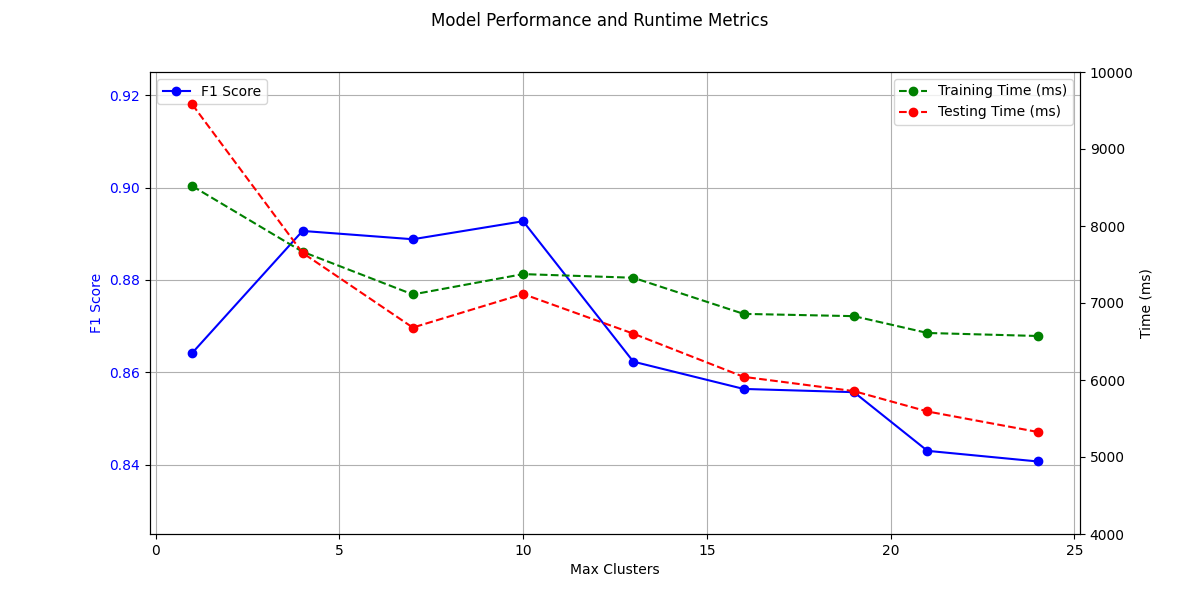
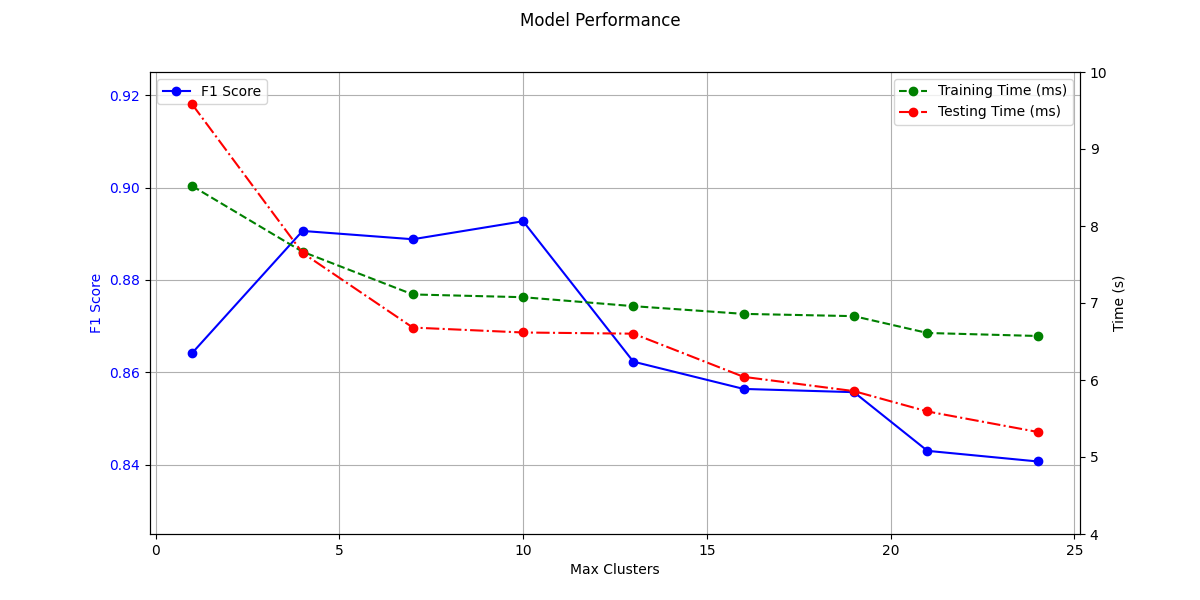
123

diff --git a/results/roc_gnn.py b/results/roc_gnn.py
@@ -4,8 +4,7 @@ import matplotlib.pyplot as plt
 from sklearn.metrics import roc_curve, auc
 
 # 定义函数绘制ROC曲线
-def plot_roc_curve(file_paths):
-    plt.figure(figsize=(10, 8))
+def plot_roc_curve(plt, file_paths, name):
     
     for (model_name, file_path) in file_paths:
         print(file_path)
@@ -25,32 +24,36 @@ def plot_roc_curve(file_paths):
     
     # 图形美化
     plt.plot([0, 1], [0, 1], 'k--', lw=2)  # 对角线
-    plt.xlim([0.0, 1.0])
-    plt.ylim([0.0, 1.05])
-    plt.xlabel('False Positive Rate', fontsize=12)
-    plt.ylabel('True Positive Rate', fontsize=12)
-    plt.title('ROC Curve for Multiple Models', fontsize=14)
+    plt.set_xlim([0.0, 1.0])
+    plt.set_ylim([0.0, 1.05])
+    plt.set_xlabel('False Positive Rate', fontsize=12)
+    plt.set_ylabel('True Positive Rate', fontsize=12)
+    plt.set_title(f'ROC Curve for {name}', fontsize=14)
     plt.legend(loc='lower right', fontsize=10)
     plt.grid()
-    plt.savefig("roc.png")
 
 # 定义文件路径列表（将以下文件路径替换为实际路径）
-# file_paths = [
-#     ('FAAC', '/root/bishe/results/load_UGR16_faac/MAEGAN/labels_anomaly_scores.csv'),
-#     ('GCN', '/root/bishe/results/load_UGR16_GCN/MAEGAN/labels_anomaly_scores.csv'),
-#     ('GAT', '/root/bishe/results/load_UGR16_GAT/MAEGAN/labels_anomaly_scores.csv'),
-#     ('GCN-LSTM', '/root/bishe/results/load_UGR16_GCN_LSTM/MAEGAN/labels_anomaly_scores.csv'),
-#     ('Evolve_GCN', '/root/bishe/results/load_UGR16_Evolve_GCN/MAEGAN/labels_anomaly_scores.csv'),
-#     ('FG-DyGAT', '/root/bishe/results/load_UGR16_DyGAT/MAEGAN/labels_anomaly_scores.csv'),
-# ]
-file_paths = [
+file_paths_ugr6 = [
+    ('FAAC', '/root/bishe/results/load_UGR16_faac/MAEGAN/labels_anomaly_scores.csv'),
+    ('GCN', '/root/bishe/results/load_UGR16_GCN/MAEGAN/labels_anomaly_scores.csv'),
+    ('GAT', '/root/bishe/results/load_UGR16_GAT/MAEGAN/labels_anomaly_scores.csv'),
+    ('GCN-LSTM', '/root/bishe/results/load_UGR16_GCN_LSTM/MAEGAN/labels_anomaly_scores.csv'),
+    ('Evolve-GCN', '/root/bishe/results/load_UGR16_Evolve_GCN/MAEGAN/labels_anomaly_scores.csv'),
+    ('FG-DyGAT', '/root/bishe/results/load_UGR16_DyGAT/MAEGAN/labels_anomaly_scores.csv'),
+]
+file_paths_cic2018 = [
     ('FAAC', '/root/bishe/results/load_cic2018_faac/MAEGAN/labels_anomaly_scores.csv'),
     ('GCN', '/root/bishe/results/load_CIC2018_GCN/MAEGAN/labels_anomaly_scores.csv'),
     ('GAT', '/root/bishe/results/load_CIC2018_GAT/MAEGAN/labels_anomaly_scores.csv'),
     ('GCN-LSTM', '/root/bishe/results/load_CIC2018_GCN_LSTM/MAEGAN/labels_anomaly_scores.csv'),
-    ('Evolve_GCN', '/root/bishe/results/load_CIC2018_Evolve_GCN/MAEGAN/labels_anomaly_scores.csv'),
+    ('Evolve-GCN', '/root/bishe/results/load_CIC2018_Evolve_GCN/MAEGAN/labels_anomaly_scores.csv'),
     ('FG-DyGAT', '/root/bishe/results/load_cic2018_DyGAT/MAEGAN/labels_anomaly_scores.csv'),
 ]
 
 # 调用函数绘制ROC曲线
-plot_roc_curve(file_paths)
+fig, axes = plt.subplots(1, 2, figsize=(12, 6))
+# 调用函数绘制ROC曲线
+plot_roc_curve(axes[0], file_paths_ugr6, "UGR16")
+plot_roc_curve(axes[1], file_paths_cic2018, "CIC2018")
+plt.tight_layout()
+plt.savefig("roc_gnn.png")

diff --git a/results/roc_gnn_one.py b/results/roc_gnn_one.py
@@ -1,0 +1,62 @@
+import os
+import pandas as pd
+import matplotlib.pyplot as plt
+from sklearn.metrics import roc_curve, auc
+
+# 定义函数绘制ROC曲线
+def plot_roc_curve(plt, file_paths, name):
+    for (model_name, file_path) in file_paths:
+        print(file_path)
+        # 读取数据
+        data = pd.read_csv(file_path)
+        
+        # 提取标签和异常分数
+        labels = data['label']
+        scores = data['anomaly_score']
+        
+        # 计算ROC曲线和AUC值
+        fpr, tpr, _ = roc_curve(labels, scores)
+        roc_auc = auc(fpr, tpr)
+        
+        # 使用文件名作为模型名称
+        plt.plot(fpr, tpr, label=f'{model_name} (AUC = {roc_auc:.4f})')
+    
+    # 图形美化
+    plt.plot([0, 1], [0, 1], 'k--', lw=2)  # 对角线
+    plt.set_xlim([0.0, 1.0])
+    plt.set_ylim([0.0, 1.05])
+    plt.set_xlabel('False Positive Rate', fontsize=12)
+    plt.set_ylabel('True Positive Rate', fontsize=12)
+    plt.set_title(f'ROC Curve for {name}', fontsize=14)
+    plt.legend(loc='lower right', fontsize=10)
+    plt.grid()
+
+# 定义文件路径列表（将以下文件路径替换为实际路径）
+file_paths_ugr6 = [
+    ('FAAC', '/root/bishe/results/load_UGR16_faac/MAEGAN/labels_anomaly_scores.csv'),
+    ('GCN', '/root/bishe/results/load_UGR16_GCN/MAEGAN/labels_anomaly_scores.csv'),
+    ('GAT', '/root/bishe/results/load_UGR16_GAT/MAEGAN/labels_anomaly_scores.csv'),
+    ('GCN-LSTM', '/root/bishe/results/load_UGR16_GCN_LSTM/MAEGAN/labels_anomaly_scores.csv'),
+    ('Evolve-GCN', '/root/bishe/results/load_UGR16_Evolve_GCN/MAEGAN/labels_anomaly_scores.csv'),
+    ('FG-DyGAT', '/root/bishe/results/load_UGR16_DyGAT/MAEGAN/labels_anomaly_scores.csv'),
+]
+file_paths_cic2018 = [
+    ('FAAC', '/root/bishe/results/load_cic2018_faac/MAEGAN/labels_anomaly_scores.csv'),
+    ('GCN', '/root/bishe/results/load_CIC2018_GCN/MAEGAN/labels_anomaly_scores.csv'),
+    ('GAT', '/root/bishe/results/load_CIC2018_GAT/MAEGAN/labels_anomaly_scores.csv'),
+    ('GCN-LSTM', '/root/bishe/results/load_CIC2018_GCN_LSTM/MAEGAN/labels_anomaly_scores.csv'),
+    ('Evolve-GCN', '/root/bishe/results/load_CIC2018_Evolve_GCN/MAEGAN/labels_anomaly_scores.csv'),
+    ('FG-DyGAT', '/root/bishe/results/load_cic2018_DyGAT/MAEGAN/labels_anomaly_scores.csv'),
+]
+
+# 单独绘制UGR16的ROC曲线
+fig_ugr6 = plt.figure(figsize=(6, 6))
+plot_roc_curve(fig_ugr6.gca(), file_paths_ugr6, "UGR16")
+plt.tight_layout()
+plt.savefig("roc_gnn_ugr16.png")
+
+# 单独绘制CIC2018的ROC曲线
+fig_cic2018 = plt.figure(figsize=(6, 6))
+plot_roc_curve(fig_cic2018.gca(), file_paths_cic2018, "CIC2018")
+plt.tight_layout()
+plt.savefig("roc_gnn_cic2018.png")

diff --git a/results/roc_maegan.py b/results/roc_maegan.py
@@ -1,0 +1,53 @@
+import os
+import pandas as pd
+import matplotlib.pyplot as plt
+from sklearn.metrics import roc_curve, auc
+
+# 定义函数绘制ROC曲线
+def plot_roc_curve(plt, dataset, file_paths, name):
+    
+    for file_path in file_paths:
+        print(file_path)
+        # 读取数据
+        data = pd.read_csv(os.path.join(dataset, file_path, "labels_anomaly_scores.csv"))
+        
+        # 提取标签和异常分数
+        labels = data['label']
+        scores = data['anomaly_score']
+        
+        # 计算ROC曲线和AUC值
+        fpr, tpr, _ = roc_curve(labels, scores)
+        roc_auc = auc(fpr, tpr)
+        
+        # 使用文件名作为模型名称
+        model_name = file_path  # 提取文件名（无扩展名）
+        plt.plot(fpr, tpr, label=f'{model_name} (AUC = {roc_auc:.4f})')
+    
+    # 图形美化
+    plt.plot([0, 1], [0, 1], 'k--', lw=2)  # 对角线
+    plt.set_xlim([0.0, 1.0])
+    plt.set_ylim([0.0, 1.05])
+    plt.set_xlabel('False Positive Rate', fontsize=12)
+    plt.set_ylabel('True Positive Rate', fontsize=12)
+    plt.set_title(f'ROC Curve for {name}', fontsize=14)
+    plt.legend(loc='lower right', fontsize=10)
+    plt.grid()
+
+# 定义文件路径列表（将以下文件路径替换为实际路径）
+file_paths = [
+    'AutoEncoder',
+    'f-anogan',
+    'DeepSVDD',
+    'SLAD',
+    'MAEGAN',
+]
+
+fig_ugr6 = plt.figure(figsize=(6, 6))
+# 调用函数绘制ROC曲线
+plot_roc_curve(fig_ugr6.gca(), "load_UGR16_faac", file_paths, "UGR16")
+plt.tight_layout()
+plt.savefig("roc_maegan_ugr16.png")
+fig_cic2018 = plt.figure(figsize=(6, 6))
+plot_roc_curve(fig_cic2018.gca(), "load_cic2018_faac", file_paths, "CIC2018")
+plt.tight_layout()
+plt.savefig("roc_maegan_cic2018.png")

diff --git a/draw/maxCluster.py b/draw/maxCluster.py
@@ -3,8 +3,12 @@ import matplotlib.pyplot as plt
 # Data
 maxClusters = [1, 4, 7, 10, 13, 16, 19, 21, 24]
 f1_scores = [0.8642, 0.8906, 0.8888, 0.8927, 0.8623, 0.8564, 0.8557, 0.8430, 0.8407]
-train_time = [8518.28, 7665.71, 7111.09, 7375.26, 7327.92, 6858.76, 6829.17, 6610.69, 6571.61]
-test_time = [9578.24, 7650.86, 6680.92, 7116.96, 6601.58, 6040.94, 5855.58, 5591.3, 5325.15]
+train_time = [8518.28, 7665.71, 7111.09, 7075.26, 6958.92, 6858.76, 6829.17, 6610.69, 6571.61]
+test_time = [9578.24, 7650.86, 6680.92, 6616.96, 6601.58, 6040.94, 5855.58, 5591.3, 5325.15]
+
+
+train_time = [t / 1000 for t in train_time]
+test_time = [t / 1000 for t in test_time]
 
 # Create the plot
 fig, ax1 = plt.subplots(figsize=(12, 6))
@@ -19,13 +23,13 @@ ax1.set_ylim(0.825, 0.925)  # Adjusting the F1 score axis to range from 0.825 to
 # Create a secondary y-axis for time metrics
 ax2 = ax1.twinx()
 ax2.plot(maxClusters, train_time, label='Training Time (ms)', color='green', linestyle='--', marker='o')
-ax2.plot(maxClusters, test_time, label='Testing Time (ms)', color='red', linestyle='--', marker='o')
-ax2.set_ylabel('Time (ms)', color='black')
+ax2.plot(maxClusters, test_time, label='Testing Time (ms)', color='red', linestyle='-.', marker='o')
+ax2.set_ylabel('Time (s)', color='black')
 ax2.tick_params(axis='y', labelcolor='black')
-ax2.set_ylim(4000, 10000)  # Adjusting the time axis to range from 4000 to 10000
+ax2.set_ylim(4, 10)  # Adjusting the time axis to range from 4000 to 10000
 
 # Adding title and legends
-fig.suptitle('Model Performance and Runtime Metrics')
+fig.suptitle('Model Performance')
 ax1.legend(loc='upper left')
 ax2.legend(loc='upper right')
 ax1.grid(True)

diff --git a/compare_models/SLAD/main.py b/compare_models/SLAD/main.py
@@ -29,6 +29,11 @@ model_name = "SLAD"
 
 module = imp.import_module('deepod.models.tabular')
 model_class = getattr(module, "SLAD")
+(x_train, y_train), (x_test, y_test) = read_data.load_UGR16_faac()
+filepath = "load_UGR16_faac"
+lr_values = [0.0001]
+hidden_dims_values = [80]
+epochs_values = [67]
 # (x_train, y_train), (x_test, y_test) = read_data.load_UGR16_faac()
 # filepath = "load_UGR16_faac"
 # lr_values = [0.0001]
@@ -39,11 +44,11 @@ model_class = getattr(module, "SLAD")
 # f1: 0.6799007444168734, traintime: 18.31, testtime:18.31  str: auc_score:0.8641,acc:0.7848,pre0.6256,rec:0.7446, f1:0.6799
 # cic2018
 
-(x_train, y_train), (x_test, y_test) = read_data.load_cic2018_faac()
-filepath = "load_cic2018_faac"
-lr_values = [0.0001]
-hidden_dims_values = [40]
-epochs_values = [60]
+# (x_train, y_train), (x_test, y_test) = read_data.load_cic2018_faac()
+# filepath = "load_cic2018_faac"
+# lr_values = [0.0001]
+# hidden_dims_values = [40]
+# epochs_values = [60]
 # config: {'lr': 0.0001, 'hidden_dims': 40, 'epochs': 50}
 # f1: 0.8632218844984804, traintime: 19.37, testtime:19.37  str: auc_score:0.8992,acc:0.8632,pre0.7906,rec:0.9505, f1:0.8632
 hyperparameter_grid = list(product(lr_values, hidden_dims_values, epochs_values))
